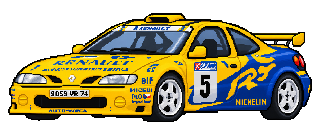
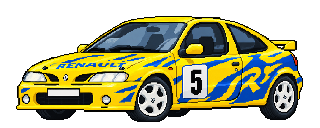
Match Saxo scale to road sprite and restore compact Megane rear body

diff --git a/public/previews/race-cars/album.js b/public/previews/race-cars/album.js
@@ -13,7 +13,7 @@ function bodywork(m){if(m.bodyworkDetails)return m.bodyworkDetails;const s=m.bod
 function links(m){$('source-list').replaceChildren();const rows=[...(m.sources||[]),...(m.imageReferences||[]).map(r=>({title:r.title||'Fotografia di riferimento',url:r.page||r.url}))];const seen=new Set();for(const r of rows){let u;try{u=new URL(r.url);if(!['http:','https:'].includes(u.protocol)||seen.has(u.href))continue;}catch{continue;}seen.add(u.href);const li=document.createElement('li'),a=document.createElement('a');a.href=u.href;a.target='_blank';a.rel='noopener noreferrer';a.textContent=r.title||u.hostname;li.append(a);$('source-list').append(li);}if(!rows.length){const li=document.createElement('li');li.textContent='Identità del modello ricavata dalle fotografie originali del catalogo.';$('source-list').append(li);}}
 function metrics(m){$('price').textContent='Costo proposto: '+euro(m.price)+' · allestimento permanente, utilizzabile in tutte le gare.';$('metrics').replaceChildren();for(const [label,key,format]of [['Potenza','cv',v=>v+' CV'],['Coppia','nm',v=>v+' Nm'],['Peso','kg',v=>v.toLocaleString('it-IT')+' kg'],['Indice prestazioni','performanceIndex',String],['Velocità teorica','topSpeedKmh',v=>v.toFixed(1)+' km/h'],['Frenata teorica','brakingMs2',v=>v.toFixed(2)+' m/s²']]){const tr=document.createElement('tr');for(const value of [label,format(m.before[key]),format(m.after[key])]){const td=document.createElement('td');td.textContent=value;tr.append(td);}$('metrics').append(tr);}}
 function openModel(m){active=m;$('model-picker').value=m.key;$('model-name').textContent=`${m.brand} ${m.name}`;$('reference').textContent=m.reference+' · '+m.referenceYear;$('classification').textContent=kind(m);$('stock-preview').src=m.stockImage;$('stock-preview').alt=`${m.brand} ${m.name} stradale`;$('race-preview').hidden=!m.image;$('art-pending').hidden=Boolean(m.image);if(m.image){$('race-preview').src=m.image;$('race-preview').alt=`${m.brand} ${m.name} · ${m.reference}`;}else $('race-preview').removeAttribute('src');$('bodywork').replaceChildren();for(const text of bodywork(m)){const li=document.createElement('li');li.textContent=text;$('bodywork').append(li);}$('history-note').textContent=m.classification==='club'?'Questo allestimento è una preparazione plausibile nell’ambientazione del 2002, non una versione ufficiale mai costruita.':(m.classification==='prototype'?'Il riferimento è un prototipo documentato: non gli vengono attribuite gare o vittorie inesistenti. ':'')+(m.notes||'Il disegno riprende l’aspetto della vettura di riferimento; la conversione del gioco mantiene il proprio motore.');links(m);metrics(m);const r=reviews[m.key];$('review-state').value=status(m);$('note').value=r?.note||'';$('saved').textContent=stale(m)?'Immagine aggiornata: note precedenti conservate, valutazione da rivedere.':'';for(const b of $('model-list').children)b.setAttribute('aria-current',String(b.dataset.key===m.key));const at=filtered.findIndex(x=>x.key===m.key);$('position').textContent=at>=0?`${at+1} / ${filtered.length}`:'';$('previous').disabled=at<=0;$('next').disabled=at<0||at>=filtered.length-1;history.replaceState(null,'',shareURL(m));}
-function filterModels(){const search=$('search').value.trim().toLocaleLowerCase('it'),brand=$('brand').value,f=$('filter').value;filtered=models.filter(m=>(!brand||m.brand===brand)&&(!search||`${m.brand} ${m.name} ${m.reference}`.toLocaleLowerCase('it').includes(search))&&(f==='all'||f==='updated'&&m.reviewBatch==='body-four-2026-10-28'||f==='ready'&&m.image||f==='historic'&&['historic','prototype'].includes(m.classification)||f==='interpretation'&&['club','inspired'].includes(m.classification)||['pending','approved','fix'].includes(f)&&status(m)===f));$('results').textContent=filtered.length+' modelli';$('model-list').replaceChildren();$('model-picker').replaceChildren();document.querySelector('.selected').hidden=!filtered.length;for(const m of filtered){const b=document.createElement('button');b.type='button';b.dataset.key=m.key;b.textContent=`${m.brand} ${m.name}`;b.addEventListener('click',()=>openModel(m));$('model-list').append(b);$('model-picker').append(new Option(`${m.brand} ${m.name}`,m.key));}if(filtered.length)openModel(filtered.find(m=>m.key===active?.key)||filtered[0]);else{$('previous').disabled=true;$('next').disabled=true;$('position').textContent='Nessun modello';}}
+function filterModels(){const search=$('search').value.trim().toLocaleLowerCase('it'),brand=$('brand').value,f=$('filter').value;filtered=models.filter(m=>(!brand||m.brand===brand)&&(!search||`${m.brand} ${m.name} ${m.reference}`.toLocaleLowerCase('it').includes(search))&&(f==='all'||f==='updated'&&m.reviewBatch==='size-two-2026-10-28'||f==='ready'&&m.image||f==='historic'&&['historic','prototype'].includes(m.classification)||f==='interpretation'&&['club','inspired'].includes(m.classification)||['pending','approved','fix'].includes(f)&&status(m)===f));$('results').textContent=filtered.length+' modelli';$('model-list').replaceChildren();$('model-picker').replaceChildren();document.querySelector('.selected').hidden=!filtered.length;for(const m of filtered){const b=document.createElement('button');b.type='button';b.dataset.key=m.key;b.textContent=`${m.brand} ${m.name}`;b.addEventListener('click',()=>openModel(m));$('model-list').append(b);$('model-picker').append(new Option(`${m.brand} ${m.name}`,m.key));}if(filtered.length)openModel(filtered.find(m=>m.key===active?.key)||filtered[0]);else{$('previous').disabled=true;$('next').disabled=true;$('position').textContent='Nessun modello';}}
 function renderBoard(){if($('board').children.length||!models.length)return;for(const m of models){const b=document.createElement('button'),img=document.createElement('img'),label=document.createElement('span'),tag=document.createElement('small');b.type='button';img.width=320;img.height=128;img.loading='lazy';img.alt=m.brand+' '+m.name+' da corsa';if(m.image)img.src=m.image;else img.hidden=true;label.textContent=m.brand+' '+m.name;tag.textContent=m.image?kind(m):'Disegno in preparazione';b.append(img,label,tag);b.addEventListener('click',()=>{$('brand').value='';$('search').value='';$('filter').value='all';filterModels();openModel(m);$('all-cars').open=false;$('model-name').tabIndex=-1;$('model-name').focus();$('model-name').scrollIntoView({block:'start'});});$('board').append(b);}}
 $('all-cars').addEventListener('toggle',()=>{if($('all-cars').open)renderBoard();});
 function correctionText(){const fixes=models.filter(m=>status(m)==='fix');return ['POKETURISMO · REVISIONE PREPARAZIONI DA CORSA',`${fixes.length} modelli da correggere`,'',...fixes.flatMap(m=>[`#${m.id} · ${m.brand} ${m.name}`,`Preparazione: ${m.reference}`,reviews[m.key]?.note?.trim()||'(Nessuna nota)',shareURL(m),''])].join('\n');}

diff --git a/public/previews/race-cars/index.html b/public/previews/race-cars/index.html
@@ -2,7 +2,7 @@
 <html lang="it"><head><meta charset="utf-8"><meta name="viewport" content="width=device-width,initial-scale=1"><meta name="robots" content="noindex,nofollow"><title>Poketurismo · Preparazioni da corsa</title><link rel="stylesheet" href="./album.css"></head>
 <body><main class="window"><header class="title">▣ Officina del paese · Reparto corse</header><div class="body"><h1>Album delle preparazioni da corsa</h1><p>Carrozzerie, cerchi, aerodinamica e livree d’epoca. Confronta ogni preparazione con la tua auto stradale e segna cosa vuoi correggere.</p><p class="notice"><strong>Anteprima da valutare.</strong> La trasformazione non è ancora acquistabile nel gioco. CV e coppia restano quelli della propria auto.</p><p id="progress" role="status">Apertura dell’album…</p><p id="error" role="alert" hidden></p>
 <details id="all-cars" class="all-cars"><summary>Colpo d’occhio · tutti i bozzetti</summary><div id="board" class="board"></div></details>
-<div class="layout"><aside aria-label="Scegli una preparazione"><label>Cerca marca o modello<input id="search" type="search" autocomplete="off" placeholder="Es. Fiat, M3, Delta…"></label><label>Marca<select id="brand"><option value="">Tutte le marche</option></select></label><label>Mostra<select id="filter"><option value="all">Tutte le preparazioni</option><option value="updated">Aggiornate · 4 modelli</option><option value="ready">Immagini pronte</option><option value="historic">Riferimenti storici</option><option value="interpretation">Preparazioni del club</option><option value="pending">Da valutare</option><option value="approved">Vanno bene</option><option value="fix">Da correggere</option></select></label><p id="results"></p><label class="mobile-picker">Modello<select id="model-picker"></select></label><div id="model-list" aria-label="Modelli disponibili"></div><div class="actions"><button id="export" type="button">Esporta correzioni</button><button id="copy-list" type="button">Copia elenco</button></div><p class="small">Le valutazioni restano su questo browser. Esporta l’elenco per conservarlo o mandarmelo in chat.</p></aside>
+<div class="layout"><aside aria-label="Scegli una preparazione"><label>Cerca marca o modello<input id="search" type="search" autocomplete="off" placeholder="Es. Fiat, M3, Delta…"></label><label>Marca<select id="brand"><option value="">Tutte le marche</option></select></label><label>Mostra<select id="filter"><option value="all">Tutte le preparazioni</option><option value="updated">Aggiornate · 2 modelli</option><option value="ready">Immagini pronte</option><option value="historic">Riferimenti storici</option><option value="interpretation">Preparazioni del club</option><option value="pending">Da valutare</option><option value="approved">Vanno bene</option><option value="fix">Da correggere</option></select></label><p id="results"></p><label class="mobile-picker">Modello<select id="model-picker"></select></label><div id="model-list" aria-label="Modelli disponibili"></div><div class="actions"><button id="export" type="button">Esporta correzioni</button><button id="copy-list" type="button">Copia elenco</button></div><p class="small">Le valutazioni restano su questo browser. Esporta l’elenco per conservarlo o mandarmelo in chat.</p></aside>
 <section class="selected" aria-label="Confronto stradale e corsa"><nav class="navigation"><button id="previous" type="button">← Precedente</button><span id="position"></span><button id="next" type="button">Successiva →</button></nav><h2 id="model-name">Scegli un modello</h2><p id="reference"></p><p id="classification" class="small"></p>
 <div class="comparison"><figure><div class="image-scroll"><img id="stock-preview" width="320" height="128" alt="Versione stradale"></div><figcaption>Stradale · immagine attuale</figcaption></figure><figure><div class="image-scroll"><img id="race-preview" width="320" height="128" alt="Preparazione da corsa" hidden><p id="art-pending" hidden>Disegno in preparazione.</p></div><figcaption>Preparazione da corsa · anteprima</figcaption></figure></div>
 <div class="actions"><button id="zoom" type="button" aria-pressed="false">Ingrandisci pixel art ×2</button><button id="copy-link" type="button">Copia collegamento</button></div>
@@ -10,4 +10,4 @@
 <details class="specs"><summary>Proposta di costo e assetto</summary><p id="price"></p><p class="small">Valori di confronto con auto di serie, condizioni al 100% e 20 L di benzina normale. I migliori componenti già montati non ricevono una seconda volta gli stessi benefici.</p><table><thead><tr><th>Voce</th><th>Prima</th><th>Dopo</th></tr></thead><tbody id="metrics"></tbody></table><p class="small">Nessun motore da gara viene trapiantato: potenza e coppia restano invariate. Il peso ridotto aiuta i rilanci; freni e assetto migliorano il controllo. L’aerodinamica può costare un po’ di allungo.</p></details>
 <details class="sources"><summary>Storia e fotografie di riferimento</summary><p id="history-note"></p><ul id="source-list"></ul></details>
 <section class="review"><h3>La tua valutazione</h3><label>Risultato<select id="review-state"><option value="pending">Da valutare</option><option value="approved">Va bene</option><option value="fix">Da correggere</option></select></label><label>Cosa sistemare<textarea id="note" maxlength="1800" rows="4" placeholder="Es. allargamenti, paraurti, fari, spoiler, cerchi o livrea…"></textarea></label><button id="confirm-review" type="button">Conferma valutazione</button><p id="saved" class="small" role="status"></p></section>
-</section></div><div id="copy-fallback" hidden><label>Testo da copiare<textarea id="copy-text" rows="9" readonly></textarea></label></div><footer><a href="/map">← Torna al gioco</a><a href="/previews/pixel-cars/">Album auto stradali</a><span id="notice" role="status"></span></footer></div></main><noscript>Attiva JavaScript per sfogliare le preparazioni.</noscript><script type="module" src="./album.js?v=4"></script></body></html>
+</section></div><div id="copy-fallback" hidden><label>Testo da copiare<textarea id="copy-text" rows="9" readonly></textarea></label></div><footer><a href="/map">← Torna al gioco</a><a href="/previews/pixel-cars/">Album auto stradali</a><span id="notice" role="status"></span></footer></div></main><noscript>Attiva JavaScript per sfogliare le preparazioni.</noscript><script type="module" src="./album.js?v=5"></script></body></html>

diff --git a/docs/CONVERSIONI_DA_CORSA_ANTEPRIMA.md b/docs/CONVERSIONI_DA_CORSA_ANTEPRIMA.md
@@ -59,3 +59,9 @@ Le stradali forniscono il riferimento della prospettiva per Xsara/ZX/106/306/Ibi
 `tools/race-conversions/review-4.json` registra le nuove richieste su Saxo, Xsara, Mégane e Ibiza. Batch `body-four-2026-10-28`, filtro «Aggiornate · 4 modelli». Altre 196 PNG conservate byte per byte. Saxo a revisione 3, Xsara a revisione 5, Mégane e Ibiza a revisione 4. Quattro generazioni individuali image_gen integrato, prompt e provenienza nei record per modello. Backup di basi e riferimenti in `/home/klaro/.backups/poketurismo/race-review4-2026-10-28`.
 
 Saxo ridisegnata seguendo la vera Super1600, comprese carrozzeria e livrea rossa Citroën/Total/PlayStation n.53; riferimento della camera dalla stradale. Xsara con parafanghi e fianchi più ampi, confrontati con fotografie della vera Kit Car e dettagli del kit. Mégane con coda e parafanghi posteriori rivisti da fotografie reali posteriori e a tre quarti (Ourense e Tour de Corse); frontale e livrea conservati. Ibiza con proporzioni e prospettiva della stradale, mantenendo kit, livrea e assetto da asfalto già valutati. Fonti delle foto consultabili nelle schede. Abitacoli senza persone; note locali preservate, valutazioni da rivedere solo per i quattro sprite cambiati. Nessun acquisto attivato o modifica al database.
+
+## Scala Saxo e scocca Mégane · 28 ottobre 2026
+
+Nuova richiesta limitata a Saxo e Mégane in `tools/race-conversions/review-2.json`, batch `size-two-2026-10-28`, filtro «Aggiornate · 2 modelli». Saxo rev4: antenna completamente rimossa, larghezza nativa 291 px come la stradale. Mégane rev6 dopo confronto diretto: scocca ricostruita dalla stradale, coda compatta, passo/ruota posteriore e lunotto coerenti; larghezza 287 px come la stradale. Kit e livree da corsa mantenuti. Xsara e Ibiza approvate dall’utente; tutte le altre 198 immagini restano byte per byte identiche, senza riscrivere le note locali.
+
+Generazione/modifica con image_gen integrato. Prompt completi nei record di Saxo e Mégane; basi, passaggi e confronto diretto in `/home/klaro/.backups/poketurismo/race-review5-2026-10-28`. Opzione `matchRoadWidth` dell’ingest: solo su richiesta esplicita, ricava la larghezza del riferimento stradale e ridimensiona con un unico fattore di scala, senza stirare il disegno; gli altri asset restano immutati. Il builder ricopia gli input nativi e non riapplica l’ingest. Valutazioni locali conservate, revisioni solo dei due modelli. Nessun acquisto, migrazione o modifica della partita.

diff --git a/AGENTS.md b/AGENTS.md
@@ -1,5 +1,7 @@
 # Poketurismo: istruzioni di lavoro
 
+- Scala corsa Saxo/Mégane del 28 ottobre: `review-2.json`, batch `size-two-2026-10-28`, filtro Aggiornate · 2 modelli. Saxo senza antenna, rev4, larghezza291px; Mégane da scocca stradale con coda corta, rev6, larghezza287px. `matchRoadWidth` solo su richiesta, scala uniforme; non rigenerare gli altri198asset. Xsara e Ibiza approvate esplicitamente. Dettagli in `docs/CONVERSIONI_DA_CORSA_ANTEPRIMA.md`.
+
 - Revisione corsa quattro del 28 ottobre: `tools/race-conversions/review-4.json`, batch `body-four-2026-10-28`, filtro Aggiornate · 4 modelli. Saxo Super1600 rossa (rev3), Xsara con fianchi più larghi (rev5), coda Mégane e proporzioni Ibiza (rev4). Altre 196 PNG invariate, note preservate, acquisto ancora non attivo. Dettagli in `docs/CONVERSIONI_DA_CORSA_ANTEPRIMA.md`.
 
 - Revisione corsa 10 dettagli del 28 ottobre: `tools/race-conversions/review-10.json`, batch `details-10-2026-10-28` e filtro Aggiornate · 10 modelli. 190 altre PNG invariate; prospettiva delle stradali prioritaria, abitacoli senza piloti, Sierra con ala stradale. Saxo rev2, Xsara rev4, altre otto rev3. Note locali conservate, conversione ancora solo in anteprima; leggere `docs/CONVERSIONI_DA_CORSA_ANTEPRIMA.md`.
